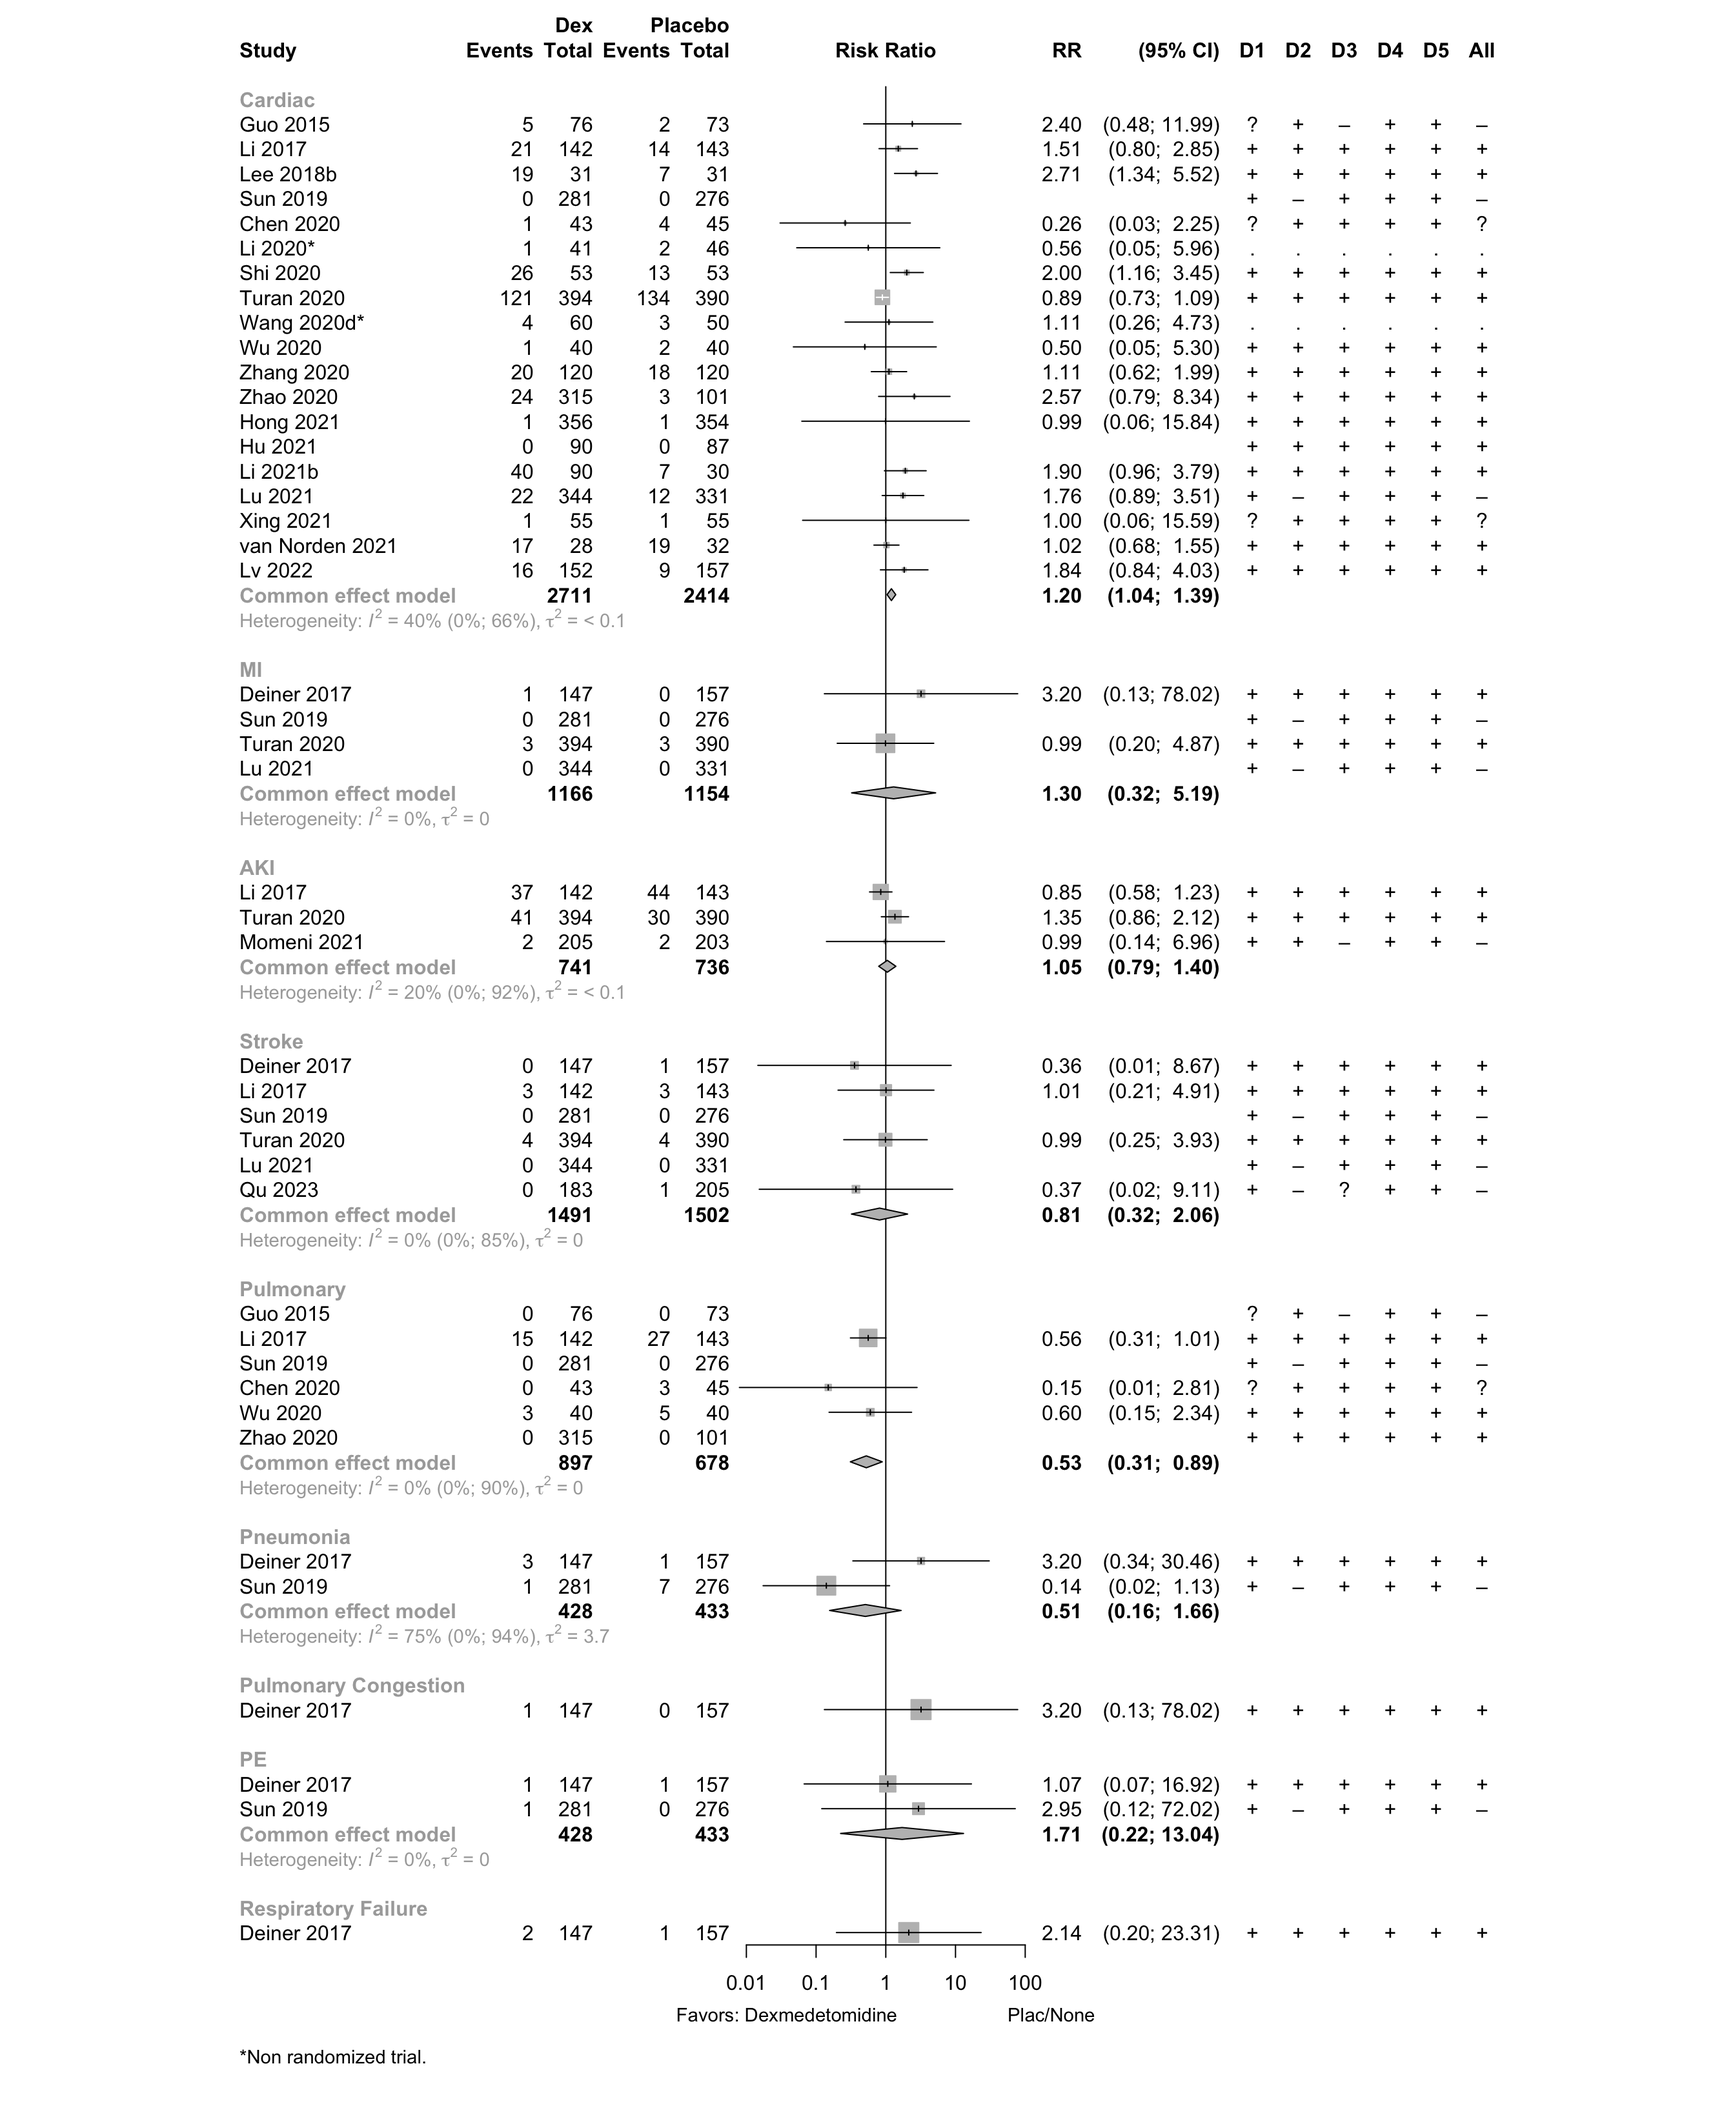
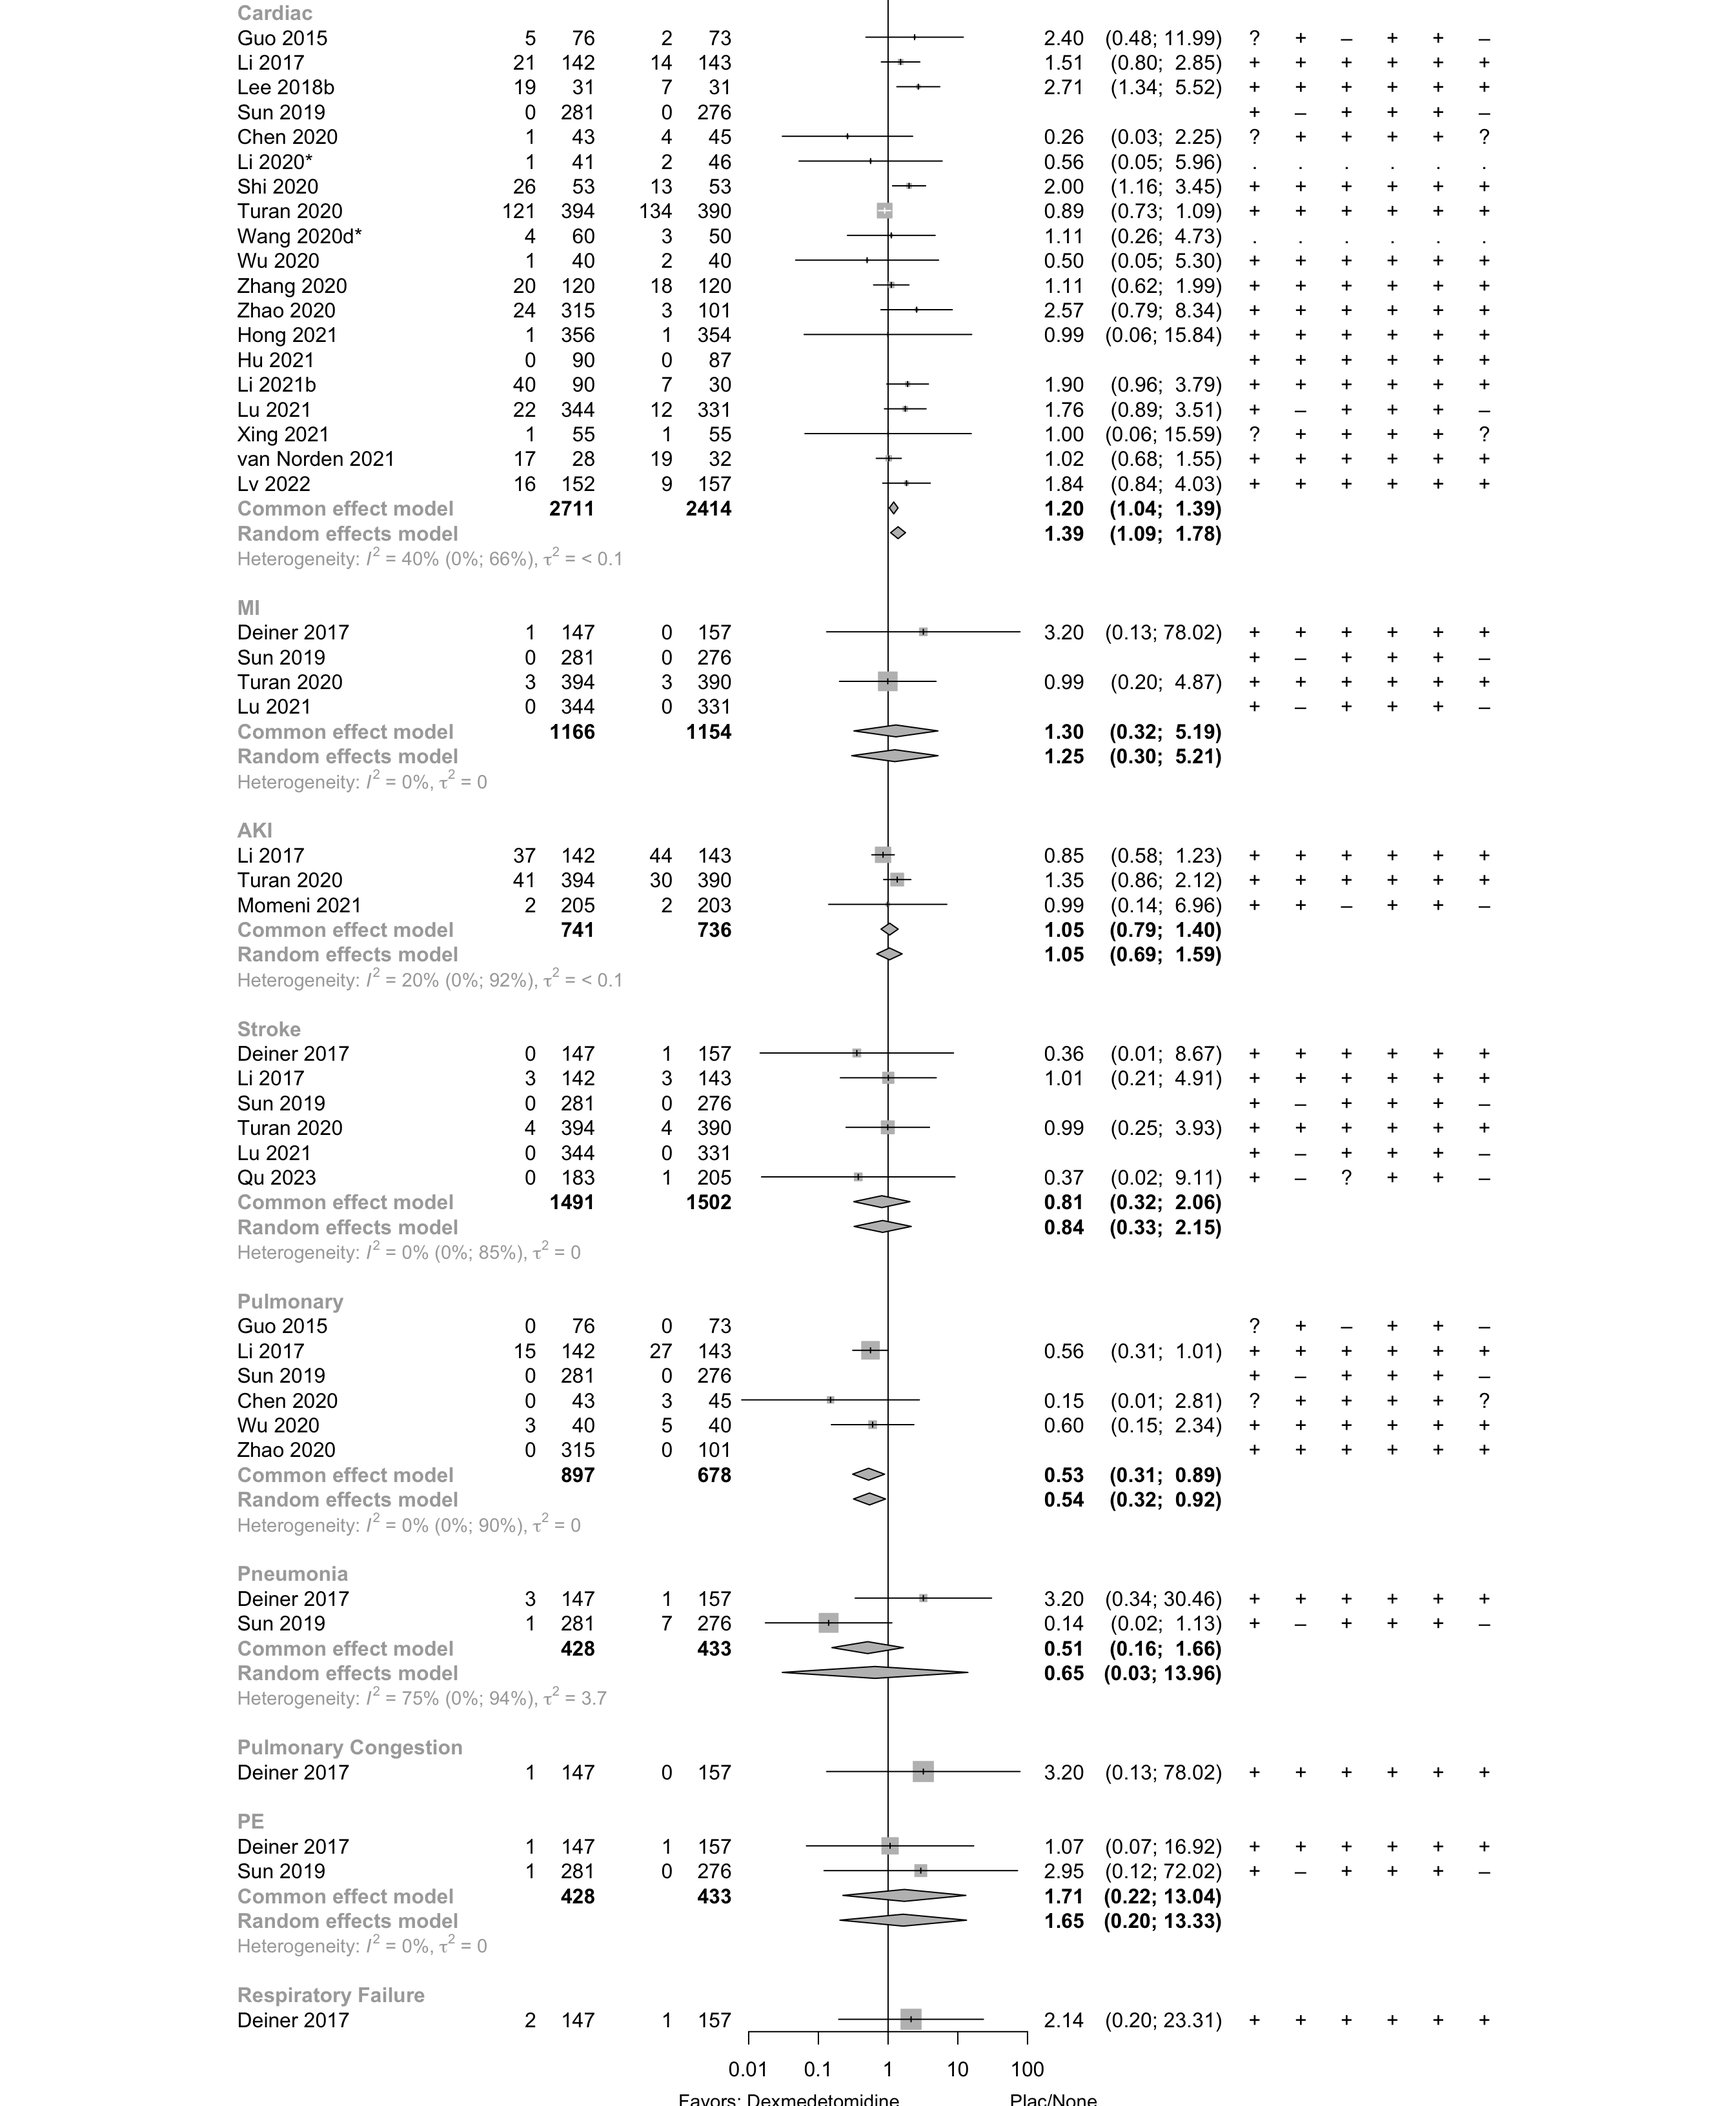
add re to complications

diff --git a/docs/kq6.html b/docs/kq6.html
@@ -182,7 +182,7 @@ div.csl-indent {
 <!-- sidebar -->
   <nav id="quarto-sidebar" class="sidebar collapse collapse-horizontal sidebar-navigation floating overflow-auto">
     <nav id="TOC" role="doc-toc" class="toc-active">
-    <h2 id="toc-title">Delirium Prophylaxis</h2>
+    <h2 id="toc-title"><strong>Delirium Prophylaxis</strong></h2>
    
   <ul>
   <li><a href="#key-question" id="toc-key-question" class="nav-link active" data-scroll-target="#key-question">Key Question</a></li>
@@ -294,7 +294,7 @@ div.csl-indent {
 <h2 class="anchored" data-anchor-id="key-question">Key Question</h2>
 <p>Among older patients undergoing surgery and anesthesia, do dexmedetomidine, ketamine, ramelteon, or melatonin administered during the perioperative period decrease the risk of postoperative delirium or other adverse cognitive outcomes?</p>
 <!-- ::: {.callout-note collapse="true" appearance="default" icon="true"} -->
-<!-- ## DRAFT results last updated 2023-05-19 15:37:19.282238 -->
+<!-- ## DRAFT results last updated 2023-05-22 11:48:54.490946 -->
 <!-- 2023-04-29 added assessment < or ≥3 days subgrouping to delayed neurocognitive recovery; country to LOS; edited colors throughout -->
 <!-- 2023-04-20 delayed neurocognitive recovery and neurocognitive disorders pairwise and network meta-analyses added -->
 <!-- 2023-04-19 delayed neurocognitive recovery and neurocognitive disorders added (Evered et al. 2018 Anesthesiology nomenclature) -->
@@ -16025,7 +16025,7 @@ div.csl-indent {
 <h2 class="anchored" data-anchor-id="complications"><strong>Complications</strong></h2>
 <section id="dexmedetomidine-5" class="level3">
 <h3 class="anchored" data-anchor-id="dexmedetomidine-5">Dexmedetomidine</h3>
-<p><font size="4"> Table 19. Report complications in dexmedetomidine studies — cardiac, MI, stroke, pulmonary, pneumonia, and acute kidney injury (randomized clinical trials unless noted). </font></p>
+<p><font size="4"> Table 19. Reported complications in dexmedetomidine studies — cardiac, MI, stroke, pulmonary, pneumonia, and acute kidney injury (randomized clinical trials unless noted). </font></p>
 <div class="cell">
 <div class="cell-output-display">
 
@@ -18304,7 +18304,7 @@ div.csl-indent {
 </section>
 <section id="pooled-2" class="level3">
 <h3 class="anchored" data-anchor-id="pooled-2"><em>Pooled</em></h3>
-<p><font size="4"> Figure 26. Risk differences in complications — cardiac, stroke, pulmonary, and acute kidney injury (dexmedetomidine versus placebo or no interventions; randomized clinical trials except and Li 2020). </font></p>
+<p><font size="4"> Figure 26. Risk ratio for complications — cardiac, stroke, pulmonary, and acute kidney injury (dexmedetomidine versus placebo or no interventions; randomized clinical trials except and Li 2020). </font></p>
 <div class="cell" data-layout-align="left">
 <div class="cell-output-display">
 <div class="quarto-figure quarto-figure-left">
